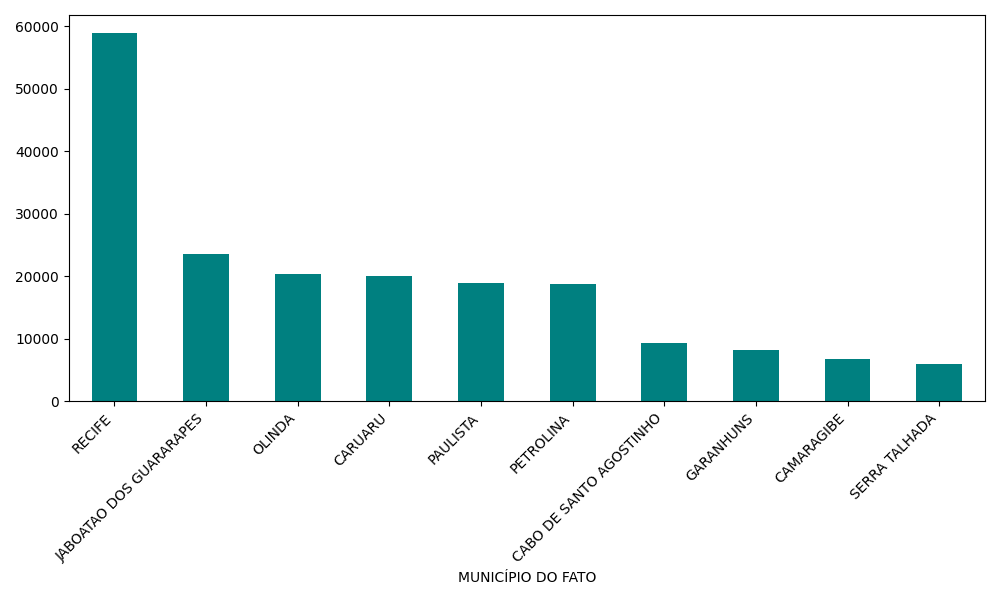
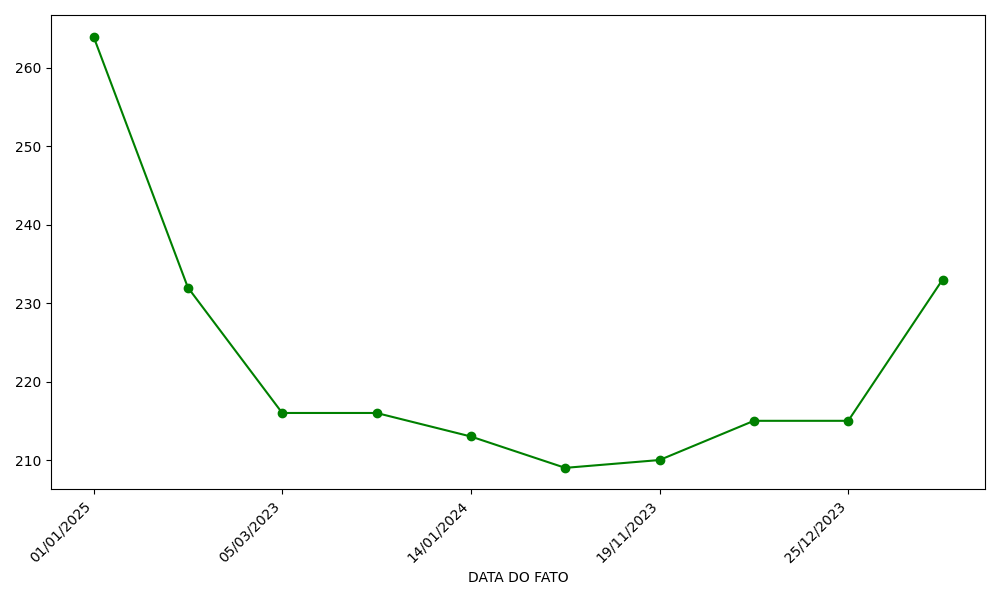
Project Complete

diff --git a/templates/graficos.html b/templates/graficos.html
@@ -1,4 +1,3 @@
-<!-- Graficos.html -->
 <!DOCTYPE html>
 <html lang="pt-br">
 <head>
@@ -9,55 +8,59 @@
 </head>
 <body>
 
-<h1>Dashboard de Violência Doméstica</h1>
+    <h1 class="titulo"> Exibidor de Graficos </h1>
 
-<button onclick="toggleDropdown()">GRÁFICOS</button>
+    <button class="toggle-button" onclick="toggleDropdown()">Selecionar Variáveis</button>
 
-<div id="checkboxDropdown" style="display:none; margin:10px 0;">
-  <form id="graficoForm">
-    <label><input type="checkbox" name="variaveis" value="municipio"> Município do Fato</label><br>
-    <label><input type="checkbox" name="variaveis" value="regiao"> Região Geográfica</label><br>
-    <label><input type="checkbox" name="variaveis" value="natureza"> Natureza</label><br>
-    <label><input type="checkbox" name="variaveis" value="data"> Data dos Ocorridos</label><br>
-    <label><input type="checkbox" name="variaveis" value="ano"> Ano</label><br>
-    <label><input type="checkbox" name="variaveis" value="sexo"> Sexo</label><br>
-    <label><input type="checkbox" name="variaveis" value="idade"> Idade SENASP</label><br>
-    <label><input type="checkbox" name="variaveis" value="envolvidos"> Total de Envolvidos</label><br>
-    <button type="submit">Ver Gráficos</button> 
-    
-    
-  </form>
-</div>
-<a href="/"><button>Voltar para o Inicio</button></a>
-<div id="resultado">
-  <!-- Os gráficos e resumos serão injetados aqui -->
-</div>
+    <div id="checkboxDropdown" style="display:none;">
+        <div class="card">
+            <form id="graficoForm">
+                <div class="checkbox-group">
+                    <label><input type="checkbox" name="variaveis" value="municipio"> Município do Fato</label>
+                    <label><input type="checkbox" name="variaveis" value="regiao"> Região Geográfica</label>
+                    <label><input type="checkbox" name="variaveis" value="natureza"> Natureza</label>
+                    <label><input type="checkbox" name="variaveis" value="data"> Data dos Ocorridos</label>
+                    <label><input type="checkbox" name="variaveis" value="ano"> Ano</label>
+                    <label><input type="checkbox" name="variaveis" value="sexo"> Sexo</label>
+                    <label><input type="checkbox" name="variaveis" value="idade"> Idade SENASP</label>
+                    <label><input type="checkbox" name="variaveis" value="envolvidos"> Total de Envolvidos</label>
+                </div>
 
-<script>
-function toggleDropdown() {
-  const box = document.getElementById('checkboxDropdown');
-  box.style.display = (box.style.display === 'none') ? 'block' : 'none';
-}
+                <div class="botoes">
+                    <button type="submit" class="btn-primary">Ver Gráficos</button>
+                    <a href="/" class="btn-secondary">Voltar para o Início</a>
+                </div>
+            </form>
+        </div>
+    </div>
 
-document.getElementById('graficoForm').addEventListener('submit', async function(e) {
-  e.preventDefault();
-  const formData = new FormData(e.target);
-  const variaveis = formData.getAll('variaveis');
+    <div id="resultado"></div>
 
-  if (variaveis.length === 0 || variaveis.length > 8) {
-    alert('Selecione entre 1 e 8 variáveis.');
-    return;
-  }
+    <script>
+        function toggleDropdown() {
+            const box = document.getElementById('checkboxDropdown');
+            box.style.display = (box.style.display === 'none') ? 'block' : 'none';
+        }
 
-  const response = await fetch('/gerar_graficos', {
-    method: 'POST',
-    headers: {'Content-Type': 'application/json'},
-    body: JSON.stringify({variaveis: variaveis})
-  });
+        document.getElementById('graficoForm').addEventListener('submit', async function(e) {
+            e.preventDefault();
+            const formData = new FormData(e.target);
+            const variaveis = formData.getAll('variaveis');
 
-  const html = await response.text();
-  document.getElementById('resultado').innerHTML = html;
-});
-</script>
+            if (variaveis.length === 0 || variaveis.length > 8) {
+                alert('Selecione entre 1 e 8 variáveis.');
+                return;
+            }
+
+            const response = await fetch('/gerar_graficos', {
+                method: 'POST',
+                headers: { 'Content-Type': 'application/json' },
+                body: JSON.stringify({ variaveis: variaveis })
+            });
+
+            const html = await response.text();
+            document.getElementById('resultado').innerHTML = html;
+        });
+    </script>
 </body>
 </html>

diff --git a/static/styles/graficos.css b/static/styles/graficos.css
@@ -1,77 +1,117 @@
-* {
-    box-sizing: border-box;
+body {
     margin: 0;
     padding: 0;
-}
-
-body {
     font-family: 'Segoe UI', Tahoma, Geneva, Verdana, sans-serif;
     background: linear-gradient(to right, #4683b4af, #4364f7);
-    color:  #e6e6e6;
-    height: 100vh;
+    color: #f2f2f2;
+
     display: flex;
     flex-direction: column;
     align-items: center;
-}
-
-body, h2{
-    font-family: 'Segoe UI', Tahoma, Geneva, Verdana, sans-serif;
-    color: #e6e6e6;
+    justify-content: center; /* Centraliza verticalmente */
+    min-height: 100vh;
     text-align: center;
-    margin-top: 20px;
 }
 
-button {
-    width: 10%;
+#checkboxDropdown {
+    display: flex;
+    justify-content: center;
+    align-items: center;
+    flex-direction: column;
+}
+
+
+.titulo {
+    margin-top: 40px;
+    font-size: 2em;
+    text-align: center;
+}
+
+.toggle-button {
+    margin: 20px 0;
+    width: 220px;
     padding: 15px;
-    margin: 0px;
-    margin-bottom: 20px;
     background: #1E90FF;
-    color: #e6e6e6;
+    color: white;
     border: none;
-    border-radius: 10px;
+    border-radius: 14px;
     font-weight: bold;
     font-size: 1rem;
     box-shadow: 0 6px 12px rgba(0, 0, 0, 0.15);
     cursor: pointer;
     transition: all 0.3s ease;
-    letter-spacing: 0.5px;
 }
 
-button:hover {
+.toggle-button:hover {
     background: #0b75d1;
     transform: scale(1.05);
 }
 
-.grafico-container, h3{
-    font-family: monospace;
-    font-size: 25px;
+.card {
+    background: rgba(255, 255, 255, 0.1);
+    border-radius: 20px;
+    padding: 30px 40px;
+    width: 90%;
+    max-width: 500px;
+    margin-bottom: 30px;
+    box-shadow: 0 8px 20px rgba(0, 0, 0, 0.2);
 }
 
-.grafico-container, h2{
-    font-family: monospace;
-    font-size: 25px;
+.checkbox-group {
+    display: flex;
+    flex-direction: column;
+    gap: 10px;
+    text-align: left;
+}
+
+.checkbox-group label {
+    font-size: 1rem;
+    display: flex;
+    align-items: center;
+}
+
+input[type="checkbox"] {
+    margin-right: 10px;
+    transform: scale(1.2);
+    accent-color: #1E90FF;
+}
+
+.botoes {
+    display: flex;
+    flex-direction: column;
+    gap: 10px;
+    margin-top: 20px;
+}
+
+.btn-primary,
+.btn-secondary {
+    padding: 12px;
     text-align: center;
-    margin-top: auto;
-}
-
-table {
-    margin: 0 auto;
-    border-collapse: collapse;
-}
-th, td {
-    padding: 8px 12px;
-    border: 1px solid #000000;
-    font-family: monospace;
-    font-size: 18px;
+    border-radius: 12px;
     font-weight: bold;
-}
-#grafico-container {
-    display: none;
-    text-align: center;
+    font-size: 1rem;
+    border: none;
+    cursor: pointer;
+    text-decoration: none;
+    transition: all 0.3s ease;
 }
 
-.container {
-    max-width: 1000px;
-    margin: auto;
+.btn-primary {
+    background: #1E90FF;
+    color: white;
+}
+
+.btn-primary:hover {
+    background: #0b75d1;
+    transform: scale(1.05);
+}
+
+.btn-secondary {
+    background: #6c757d;
+    color: white;
+}
+
+.btn-secondary:hover {
+    background: #545b62;
+    transform: scale(1.05);
 }

diff --git a/static/styles/index_graficos.css b/static/styles/index_graficos.css
@@ -1,0 +1,77 @@
+* {
+    box-sizing: border-box;
+    margin: 0;
+    padding: 0;
+}
+
+body {
+    font-family: 'Segoe UI', Tahoma, Geneva, Verdana, sans-serif;
+    background: linear-gradient(to right, #4683b4af, #4364f7);
+    color:  #e6e6e6;
+    height: 100vh;
+    display: flex;
+    flex-direction: column;
+    align-items: center;
+}
+
+body, h2{
+    font-family: 'Segoe UI', Tahoma, Geneva, Verdana, sans-serif;
+    color: #e6e6e6;
+    text-align: center;
+    margin-top: 20px;
+}
+
+button {
+    width: 10%;
+    padding: 15px;
+    margin: 0px;
+    margin-bottom: 20px;
+    background: #1E90FF;
+    color: #e6e6e6;
+    border: none;
+    border-radius: 10px;
+    font-weight: bold;
+    font-size: 1rem;
+    box-shadow: 0 6px 12px rgba(0, 0, 0, 0.15);
+    cursor: pointer;
+    transition: all 0.3s ease;
+    letter-spacing: 0.5px;
+}
+
+button:hover {
+    background: #0b75d1;
+    transform: scale(1.05);
+}
+
+.grafico-container, h3{
+    font-family: monospace;
+    font-size: 25px;
+}
+
+.grafico-container, h2{
+    font-family: monospace;
+    font-size: 25px;
+    text-align: center;
+    margin-top: auto;
+}
+
+table {
+    margin: 0 auto;
+    border-collapse: collapse;
+}
+th, td {
+    padding: 8px 12px;
+    border: 1px solid #000000;
+    font-family: monospace;
+    font-size: 18px;
+    font-weight: bold;
+}
+#grafico-container {
+    display: none;
+    text-align: center;
+}
+
+.container {
+    max-width: 1000px;
+    margin: auto;
+}

diff --git a/static/styles/data.css b/static/styles/data.css
@@ -66,8 +66,8 @@ button:hover, .btn-voltar:hover {
     transform: scale(1.05);
 }
 
+
 .resultado-data {
-    background: rgba(255, 255, 255, 0.15);
     border-radius: 15px;
     padding: 20px 30px;
     backdrop-filter: blur(6px);
@@ -77,12 +77,15 @@ button:hover, .btn-voltar:hover {
     font-weight: bold;
     max-width: 800px;
     margin: 20px auto;
-    text-align: center;
+    text-align: center;
+}
+.resultado-data:not(:empty) {
+ background-color: rgba(255, 255, 255, 0.05);
 }
 
-
-.back-button {
-    margin-top: 20px;
+.back-button, a {
+    margin: auto;
+    margin-bottom: 20px;
 }
 
 .filtros-dados {

diff --git a/templates/grafico.html b/templates/grafico.html
@@ -4,7 +4,7 @@
 <head>
     <meta charset="UTF-8">
     <title>Gráfico - {{ categoria }}</title>
-    <link rel="stylesheet" href="{{ url_for('static', filename='styles/graficos.css') }}">
+    <link rel="stylesheet" href="{{ url_for('static', filename='styles/index_graficos.css') }}">
     <script defer src="{{ url_for('static', filename='script/grafico.js') }}"></script>
     
 </head>

diff --git a/static/styles/comparar.css b/static/styles/comparar.css
@@ -172,4 +172,3 @@ button:hover {
     justify-content: center;
     text-decoration: none;  
 }
-
